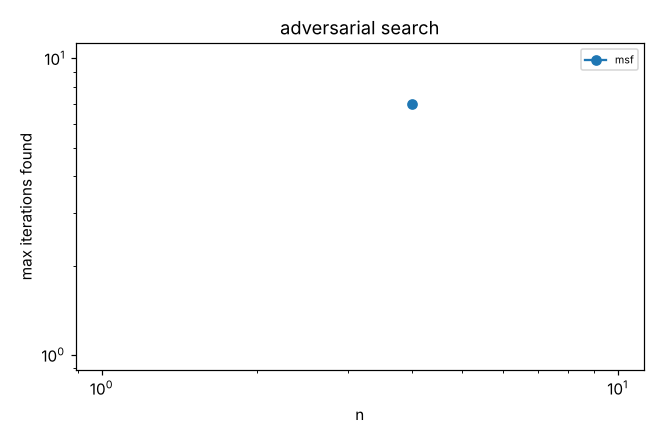
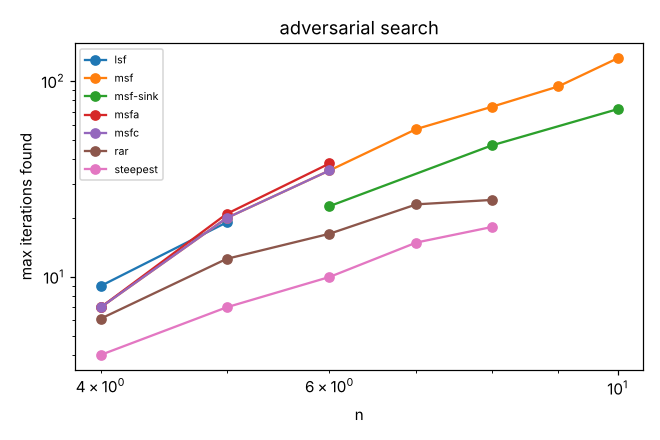
L-SI: cross-lane runs on L-ALG block games, M_L and Bland tables in RESULTS-extra; report appends them
Claude-Session: https://claude.ai/code/session_01HnGDSEHG3NHszV1y8ND6BF

diff --git a/experiments/si/report.py b/experiments/si/report.py
@@ -107,5 +107,8 @@ if adv:
         ax.plot([p[0] for p in pts], [max(p[1], 0.5) for p in pts], marker="o", label=r)
     ax.set_xscale("log"); ax.set_yscale("log"); ax.set_xlabel("n"); ax.set_ylabel("max iterations found"); ax.set_title("adversarial search")
     ax.legend(fontsize=7); fig.tight_layout(); fig.savefig(os.path.join(PLOTS, "adversarial.png"), dpi=110); plt.close(fig)
+extra = os.path.join(DOC, "RESULTS-extra.md")
+if os.path.exists(extra):
+    out.append(open(extra).read())
 open(os.path.join(DOC, "RESULTS.md"), "w").write("\n".join(out) + "\n")
 print("wrote", os.path.join(DOC, "RESULTS.md"), "and", len(fams), "plots")

diff --git a/docs/si/RESULTS.md b/docs/si/RESULTS.md
@@ -2,46 +2,259 @@
 Cell = iterations (randomized rules: mean over seeds / max); 'timeout' = exceeded the per-run limit; growth fits over the
 last 3 finished sizes: k (iters ~ n^k), b (iters ~ b^N per +1 in N). Plots: docs/si/plots/<family>.png (log-log).
 
-## counter_symsi
-| N | n | m | random-edge | rar |
-|---|---|---|---|---|
-| 1 | 12 | 26 | 5.6 / 6 | 5.2 / 6 |
-| 2 | 22 | 48 | 13.6 / 16 | 9.2 / 12 |
-| 3 | 32 | 70 | 20.8 / 30 | 21.4 / 31 |
-| 4 | 42 | 92 | 34.4 / 41 | 31.4 / 43 |
-| 5 | 52 | 114 | - | 33 |
+## switchallexp
+| N | n | m | S4 | S4:msf | lsf | most-improved | msf | random-edge | rar | steepest | switch-all |
+|---|---|---|---|---|---|---|---|---|---|---|---|
+| 1 | 21 | 41 | 10 | 13 | 15 | 20 | 13 | 22.0 / 29 | 18.4 / 22 | 13 | 10 |
+| 2 | 35 | 75 | 30 | 27 | 45 | 42 | 27 | 59.4 / 68 | 50.6 / 69 | 34 | 30 |
+| 3 | 49 | 109 | 70 | 42 | 102 | 56 | 42 | 103.6 / 160 | 126.8 / 147 | 58 | 70 |
+| 4 | 63 | 143 | 150 | 57 | 163 | 75 | 57 | 177.8 / 271 | 131.0 / 167 | 86 | 150 |
+| 5 | 77 | 177 | 310 | 72 | 236 | 94 | 72 | 236.0 / 265 | 226.4 / 272 | 118 | 310 |
+| 6 | 91 | 211 | 630 | 87 | 321 | 113 | 87 | 284.0 / 330 | 276.2 / 350 | 154 | 630 |
+| 7 | 105 | 245 | 1243 | 102 | 418 | 132 | 102 | 386.4 / 550 | 397.6 / 462 | 194 | 1243 |
+| 8 | 119 | 279 | 2486 | 117 | 527 | 151 | 117 | 561.6 / 726 | 455.0 / 621 | 238 | 2486 |
 
-Growth (last 3 sizes): random-edge: k=1.42 b=1.59; rar: k=0.92 b=1.24
+Growth (last 3 sizes): S4: k=5.11 b=1.99; S4:msf: k=1.10 b=1.16; lsf: k=1.85 b=1.28; most-improved: k=1.08 b=1.16; msf: k=1.10 b=1.16; random-edge: k=2.53 b=1.41; rar: k=1.88 b=1.28; steepest: k=1.62 b=1.24; switch-all: k=5.11 b=1.99
+
+## switchbestexp
+| N | n | m | S4 | S4:msf | lsf | most-improved | msf | random-edge | rar | steepest | switch-all |
+|---|---|---|---|---|---|---|---|---|---|---|---|
+| 1 | 35 | 70 | 21 | 20 | 28 | 42 | 20 | 45.0 / 57 | 38.4 / 53 | 23 | 21 |
+| 2 | 60 | 130 | 65 | 62 | 80 | 131 | 41 | 133.0 / 176 | 128.0 / 177 | 66 | 61 |
+| 3 | 85 | 190 | 130 | 101 | 170 | 299 | 61 | 323.0 / 441 | 215.4 / 278 | 126 | 141 |
+| 4 | 110 | 250 | 253 | 179 | 274 | 335 | 81 | 583.2 / 802 | 346.4 / 541 | 196 | 301 |
+| 5 | 135 | 310 | 466 | 235 | 402 | 484 | 101 | 657.4 / 1005 | 521.2 / 829 | 276 | 621 |
+| 6 | 160 | 370 | 853 | 349 | 554 | timeout | 121 | 1021.8 / 1263 | 872.8 / 1118 | 366 | 1261 |
+| 7 | 185 | 430 | 1592 | 423 | 730 | skipped | 141 | 1330.2 / 1613 | 1026.6 / 1615 | 466 | 2541 |
+| 8 | 210 | 490 | 2963 | 573 | 930 | skipped | 161 | 1366.0 / 1832 | 1530.4 / 2121 | timeout | 5101 |
+
+Growth (last 3 sizes): S4: k=4.57 b=1.86; S4:msf: k=1.81 b=1.28; lsf: k=1.90 b=1.30; most-improved: k=1.02 b=1.27; msf: k=1.05 b=1.15; random-edge: k=1.09 b=1.16; rar: k=2.04 b=1.32; steepest: k=1.66 b=1.30; switch-all: k=5.13 b=2.01
+
+## counter_core
+| N | n | m | S4 | S4:msf | lsf | most-improved | msf | random-edge | rar | steepest | switch-all |
+|---|---|---|---|---|---|---|---|---|---|---|---|
+| 1 | 9 | 16 | 3 | 3 | 2 | 2 | 2 | 2.0 / 2 | 2.0 / 2 | 2 | 2 |
+| 2 | 15 | 28 | 8 | 10 | 4 | 4 | 4 | 4.0 / 4 | 4.0 / 4 | 4 | 4 |
+| 3 | 21 | 40 | 15 | 21 | 6 | 6 | 6 | 6.0 / 6 | 6.0 / 6 | 6 | 6 |
+| 4 | 27 | 52 | 24 | 36 | 8 | 8 | 8 | 8.0 / 8 | 8.0 / 8 | 8 | 8 |
+| 5 | 33 | 64 | 35 | 55 | 10 | 10 | 10 | 10.0 / 10 | 10.0 / 10 | 10 | 10 |
+| 6 | 39 | 76 | 48 | 78 | 12 | 12 | 12 | 12.0 / 12 | 12.0 / 12 | 12 | 12 |
+| 7 | 45 | 88 | 63 | 105 | 14 | 14 | 14 | 14.0 / 14 | 14.0 / 14 | 14 | 14 |
+| 8 | 51 | 100 | 80 | 136 | 16 | 16 | 16 | 16.0 / 16 | 16.0 / 16 | 16 | 16 |
+
+Growth (last 3 sizes): S4: k=1.90 b=1.29; S4:msf: k=2.07 b=1.32; lsf: k=1.07 b=1.15; most-improved: k=1.07 b=1.15; msf: k=1.07 b=1.15; random-edge: k=1.07 b=1.15; rar: k=1.07 b=1.15; steepest: k=1.07 b=1.15; switch-all: k=1.07 b=1.15
+
+## counter_dp
+| N | n | m | S4 | S4:msf | lsf | most-improved | msf | random-edge | rar | steepest | switch-all |
+|---|---|---|---|---|---|---|---|---|---|---|---|
+| 1 | 8 | 12 | 0 | 0 | 0 | 0 | 0 | 0.0 / 0 | 0.0 / 0 | 0 | 0 |
+| 2 | 12 | 19 | 2 | 2 | 2 | 2 | 2 | 2.0 / 2 | 2.0 / 2 | 2 | 2 |
+| 3 | 16 | 26 | 4 | 4 | 0 | 0 | 0 | 0.0 / 0 | 0.0 / 0 | 0 | 0 |
+| 4 | 20 | 33 | 7 | 8 | 4 | 4 | 4 | 4.0 / 4 | 4.0 / 4 | 4 | 4 |
+| 5 | 24 | 40 | 9 | 12 | 0 | 0 | 0 | 0.0 / 0 | 0.0 / 0 | 0 | 0 |
+| 6 | 28 | 47 | 14 | 18 | 6 | 6 | 6 | 6.0 / 6 | 6.0 / 6 | 6 | 6 |
+| 7 | 32 | 54 | 16 | 24 | 0 | 0 | 0 | 0.0 / 0 | 0.0 / 0 | 0 | 0 |
+| 8 | 36 | 61 | 23 | 32 | 8 | 8 | 8 | 8.0 / 8 | 8.0 / 8 | 8 | 8 |
+
+Growth (last 3 sizes): S4: k=1.95 b=1.28; S4:msf: k=2.29 b=1.33; lsf: k=1.18 b=1.19; most-improved: k=1.18 b=1.19; msf: k=1.18 b=1.19; random-edge: k=1.18 b=1.19; rar: k=1.18 b=1.19; steepest: k=1.18 b=1.19; switch-all: k=1.18 b=1.19
+
+## counter_m
+| N | n | m | S4 | S4:msf | lsf | most-improved | msf | random-edge | rar | steepest | switch-all |
+|---|---|---|---|---|---|---|---|---|---|---|---|
+| 1 | 6 | 9 | 1 | 2 | 2 | 2 | 2 | 2.0 / 2 | 2.0 / 2 | 2 | 1 |
+| 2 | 9 | 15 | 3 | 5 | 1 | 1 | 1 | 1.0 / 1 | 1.0 / 1 | 1 | 1 |
+| 3 | 12 | 21 | 6 | 10 | 6 | 4 | 6 | 5.6 / 6 | 4.8 / 6 | 4 | 3 |
+| 4 | 15 | 27 | 8 | 16 | 2 | 2 | 2 | 2.0 / 2 | 2.0 / 2 | 2 | 1 |
+| 5 | 18 | 33 | 13 | 24 | 10 | 6 | 10 | 9.6 / 10 | 7.6 / 10 | 6 | 5 |
+| 6 | 21 | 39 | 15 | 33 | 3 | 3 | 3 | 3.0 / 3 | 3.0 / 3 | 3 | 1 |
+| 7 | 24 | 45 | 22 | 44 | 14 | 8 | 14 | 12.4 / 14 | 10.4 / 14 | 8 | 7 |
+| 8 | 27 | 51 | 24 | 56 | 4 | 4 | 4 | 4.0 / 4 | 4.0 / 4 | 4 | 1 |
+
+Growth (last 3 sizes): S4: k=1.89 b=1.26; S4:msf: k=2.11 b=1.30; lsf: k=1.38 b=1.15; most-improved: k=1.28 b=1.15; msf: k=1.38 b=1.15; random-edge: k=1.35 b=1.15; rar: k=1.33 b=1.15; steepest: k=1.28 b=1.15; switch-all: k=0.32 b=1.00
+
+## counter_ortl
+| N | n | m | S4 | S4:msf | lsf | most-improved | msf | random-edge | rar | steepest | switch-all |
+|---|---|---|---|---|---|---|---|---|---|---|---|
+| 1 | 6 | 9 | 2 | 2 | 2 | 2 | 2 | 2.0 / 2 | 2.0 / 2 | 2 | 2 |
+| 2 | 11 | 17 | 5 | 4 | 4 | 4 | 4 | 4.0 / 4 | 4.0 / 4 | 4 | 3 |
+| 3 | 16 | 25 | 8 | 6 | 6 | 6 | 6 | 6.0 / 6 | 6.0 / 6 | 6 | 4 |
+| 4 | 21 | 33 | 11 | 8 | 8 | 8 | 8 | 8.0 / 8 | 8.0 / 8 | 8 | 5 |
+| 5 | 26 | 41 | 14 | 10 | 10 | 10 | 10 | 10.0 / 10 | 10.0 / 10 | 10 | 6 |
+| 6 | 31 | 49 | 15 | 12 | 12 | 12 | 12 | 12.0 / 12 | 12.0 / 12 | 12 | 7 |
+| 7 | 36 | 57 | 18 | 14 | 14 | 14 | 14 | 14.0 / 14 | 14.0 / 14 | 14 | 8 |
+| 8 | 41 | 65 | 20 | 16 | 16 | 16 | 16 | 16.0 / 16 | 16.0 / 16 | 16 | 9 |
+
+Growth (last 3 sizes): S4: k=1.03 b=1.15; S4:msf: k=1.03 b=1.15; lsf: k=1.03 b=1.15; most-improved: k=1.03 b=1.15; msf: k=1.03 b=1.15; random-edge: k=1.03 b=1.15; rar: k=1.03 b=1.15; steepest: k=1.03 b=1.15; switch-all: k=0.90 b=1.13
+
+## counter_qpt
+| N | n | m | S4 | S4:msf | lsf | most-improved | msf | random-edge | rar | steepest | switch-all |
+|---|---|---|---|---|---|---|---|---|---|---|---|
+| 1 | 2 | 2 | 0 | 0 | 0 | 0 | 0 | 0.0 / 0 | 0.0 / 0 | 0 | 0 |
+| 2 | 4 | 5 | 1 | 1 | 1 | 1 | 1 | 1.0 / 1 | 1.0 / 1 | 1 | 1 |
+| 3 | 6 | 8 | 1 | 2 | 2 | 2 | 2 | 2.0 / 2 | 2.0 / 2 | 2 | 1 |
+| 4 | 8 | 11 | 1 | 3 | 3 | 3 | 3 | 3.0 / 3 | 3.0 / 3 | 3 | 1 |
+| 5 | 10 | 14 | 1 | 4 | 4 | 4 | 4 | 4.0 / 4 | 4.0 / 4 | 4 | 1 |
+| 6 | 12 | 17 | 1 | 5 | 5 | 5 | 5 | 5.0 / 5 | 5.0 / 5 | 5 | 1 |
+| 7 | 14 | 20 | 1 | 6 | 6 | 6 | 6 | 6.0 / 6 | 6.0 / 6 | 6 | 1 |
+| 8 | 16 | 23 | 1 | 7 | 7 | 7 | 7 | 7.0 / 7 | 7.0 / 7 | 7 | 1 |
+
+Growth (last 3 sizes): S4: k=0.00 b=1.00; S4:msf: k=1.17 b=1.18; lsf: k=1.17 b=1.18; most-improved: k=1.17 b=1.18; msf: k=1.17 b=1.18; random-edge: k=1.17 b=1.18; rar: k=1.17 b=1.18; steepest: k=1.17 b=1.18; switch-all: k=0.00 b=1.00
+
+## counter_rob
+| N | n | m | S4 | S4:msf | lsf | most-improved | msf | random-edge | rar | steepest | switch-all |
+|---|---|---|---|---|---|---|---|---|---|---|---|
+| 1 | 14 | 32 | 3 | 3 | 4 | 4 | 2 | 2.8 / 4 | 3.6 / 4 | 2 | 3 |
+| 2 | 31 | 80 | 11 | 17 | 22 | 8 | 4 | 15.4 / 21 | 13.6 / 16 | 4 | 6 |
+| 3 | 54 | 148 | 25 | 49 | 46 | 12 | 6 | 32.4 / 44 | 32.0 / 44 | 6 | 9 |
+| 4 | 83 | 236 | 46 | 105 | 78 | 16 | 8 | 64.0 / 69 | 47.6 / 70 | 8 | 14 |
+| 5 | 118 | 344 | 74 | 191 | 118 | 28 | 10 | 97.2 / 125 | 103.2 / 121 | 10 | 19 |
+| 6 | 159 | 472 | 109 | 313 | 166 | 34 | 12 | 159.8 / 174 | 137.4 / 157 | 12 | 24 |
+| 7 | 206 | 620 | 151 | 477 | 222 | 40 | 14 | 210.4 / 222 | 193.2 / 204 | 14 | 29 |
+| 8 | 259 | 788 | 200 | 689 | 286 | 46 | 16 | 309.0 / 333 | 300.0 / 456 | 16 | 34 |
+
+Growth (last 3 sizes): S4: k=1.24 b=1.35; S4:msf: k=1.62 b=1.48; lsf: k=1.12 b=1.31; most-improved: k=0.62 b=1.16; msf: k=0.59 b=1.15; random-edge: k=1.35 b=1.39; rar: k=1.59 b=1.48; steepest: k=0.59 b=1.15; switch-all: k=0.71 b=1.19
+
+## counter_rr
+| N | n | m | S4 | S4:msf | lsf | most-improved | msf | random-edge | rar | steepest | switch-all |
+|---|---|---|---|---|---|---|---|---|---|---|---|
+| 1 | 4 | 8 | 0 | 0 | 0 | 0 | 0 | 0.0 / 0 | 0.0 / 0 | 0 | 0 |
+| 2 | 8 | 16 | 2 | 1 | 1 | 1 | 1 | 1.4 / 3 | 1.4 / 3 | 1 | 2 |
+| 3 | 12 | 24 | 2 | 1 | 1 | 1 | 1 | 1.4 / 3 | 1.4 / 3 | 1 | 2 |
+| 4 | 16 | 32 | 4 | 2 | 2 | 2 | 2 | 2.8 / 4 | 4.0 / 6 | 2 | 3 |
+| 5 | 20 | 40 | 4 | 2 | 2 | 2 | 2 | 2.8 / 4 | 4.0 / 6 | 2 | 3 |
+| 6 | 24 | 48 | 6 | 3 | 3 | 3 | 3 | 6.2 / 7 | 5.4 / 7 | 3 | 3 |
+| 7 | 28 | 56 | 6 | 3 | 3 | 3 | 3 | 6.2 / 7 | 5.4 / 7 | 3 | 3 |
+| 8 | 32 | 64 | 8 | 4 | 4 | 4 | 4 | 8.4 / 12 | 8.0 / 10 | 4 | 3 |
+
+Growth (last 3 sizes): S4: k=0.97 b=1.15; S4:msf: k=0.97 b=1.15; lsf: k=0.97 b=1.15; most-improved: k=0.97 b=1.15; msf: k=0.97 b=1.15; random-edge: k=1.03 b=1.16; rar: k=1.33 b=1.22; steepest: k=0.97 b=1.15; switch-all: k=0.00 b=1.00
+
+## counter_symsi
+| N | n | m | S4 | S4:msf | lsf | most-improved | msf | random-edge | rar | steepest | switch-all |
+|---|---|---|---|---|---|---|---|---|---|---|---|
+| 1 | 12 | 26 | 3 | 3 | 6 | 4 | 4 | 5.6 / 6 | 5.2 / 6 | 6 | 4 |
+| 2 | 22 | 48 | 6 | 8 | 16 | 6 | 8 | 13.6 / 16 | 9.2 / 12 | 8 | 7 |
+| 3 | 32 | 70 | 12 | 19 | 24 | 10 | 10 | 20.8 / 30 | 21.4 / 31 | 10 | 10 |
+| 4 | 42 | 92 | 24 | 32 | 38 | 14 | 12 | 34.4 / 41 | 31.4 / 43 | 12 | 16 |
+| 5 | 52 | 114 | 37 | 49 | 60 | 18 | 14 | 48.4 / 58 | 44.0 / 51 | 14 | 20 |
+| 6 | 62 | 136 | 54 | 70 | 98 | 22 | 16 | 58.8 / 75 | 59.2 / 72 | 16 | 23 |
+| 7 | 72 | 158 | 74 | 95 | 168 | 26 | 18 | 73.0 / 88 | 66.0 / 84 | 18 | 25 |
+| 8 | 82 | 180 | 97 | 124 | 302 | 30 | 20 | 72.8 / 82 | 77.0 / 94 | 20 | 32 |
+
+Growth (last 3 sizes): S4: k=2.10 b=1.34; S4:msf: k=2.05 b=1.33; lsf: k=4.02 b=1.76; most-improved: k=1.11 b=1.17; msf: k=0.80 b=1.12; random-edge: k=0.78 b=1.11; rar: k=0.93 b=1.14; steepest: k=0.80 b=1.12; switch-all: k=1.17 b=1.18
+
+## randomfacetsubexp
+| N | n | m | S4 | S4:msf | lsf | most-improved | msf | steepest | switch-all |
+|---|---|---|---|---|---|---|---|---|---|
+| 2 | 20 | 32 | 4 | 7 | 6 | 4 | 7 | 5 | 4 |
+| 3 | 68 | 170 | 6 | 44 | 36 | 130 | 44 | 106 | 6 |
+| 4 | 90 | 227 | 8 | 60 | 48 | 294 | 60 | 233 | 8 |
+| 5 | 207 | 689 | 10 | 171 | 135 | timeout | 171 | timeout | 10 |
+| 6 | 248 | 828 | 12 | 207 | 162 | skipped | 207 | skipped | 12 |
+| 7 | 289 | 967 | 14 | 243 | 189 | skipped | 243 | skipped | 14 |
+| 8 | 330 | 1106 | 16 | 279 | 216 | skipped | 279 | skipped | 16 |
+| 10 | 662 | 2717 | 20 | 624 | 480 | skipped | 624 | skipped | 20 |
+| 12 | 794 | 3263 | 24 | 752 | 576 | skipped | 752 | skipped | 24 |
+
+Growth (last 3 sizes): S4: k=0.42 b=1.11; S4:msf: k=1.14 b=1.28; lsf: k=1.13 b=1.28; most-improved: k=2.85 b=8.57; msf: k=1.14 b=1.28; steepest: k=2.54 b=6.83; switch-all: k=0.42 b=1.11
+
+## recursiveladder
+| N | n | m | S4 | S4:msf | lsf | most-improved | msf | random-edge | rar | steepest | switch-all |
+|---|---|---|---|---|---|---|---|---|---|---|---|
+| 1 | 5 | 8 | 0 | 0 | 0 | 0 | 0 | 0.0 / 0 | 0.0 / 0 | 0 | 0 |
+| 2 | 10 | 19 | 0 | 0 | 0 | 0 | 0 | 0.0 / 0 | 0.0 / 0 | 0 | 0 |
+| 3 | 15 | 30 | 3 | 2 | 4 | 2 | 2 | 2.4 / 4 | 2.8 / 4 | 2 | 2 |
+| 4 | 20 | 41 | 5 | 8 | 0 | 0 | 0 | 0.0 / 0 | 0.0 / 0 | 0 | 0 |
+| 5 | 25 | 52 | 10 | 12 | 8 | 4 | 4 | 5.6 / 8 | 6.0 / 8 | 4 | 4 |
+| 6 | 30 | 63 | 12 | 24 | 0 | 0 | 0 | 0.0 / 0 | 0.0 / 0 | 0 | 0 |
+| 7 | 35 | 74 | 19 | 30 | 12 | 6 | 6 | 8.8 / 12 | 9.6 / 12 | 6 | 6 |
+| 8 | 40 | 85 | 21 | 48 | 0 | 0 | 0 | 0.0 / 0 | 0.0 / 0 | 0 | 0 |
+
+Growth (last 3 sizes): S4: k=1.97 b=1.32; S4:msf: k=2.38 b=1.41; lsf: k=1.30 b=1.32; most-improved: k=1.30 b=1.32; msf: k=1.30 b=1.32; random-edge: k=1.54 b=1.38; rar: k=1.46 b=1.36; steepest: k=1.30 b=1.32; switch-all: k=1.30 b=1.32
 
 ## tc
-| N | n | m | random-edge | rar |
-|---|---|---|---|---|
-| 1 | 8 | 11 | 0.0 / 0 | 0.0 / 0 |
-| 2 | 22 | 36 | 5.0 / 5 | 5.0 / 5 |
-| 3 | 42 | 75 | 9.4 / 13 | 11.2 / 13 |
-| 4 | 68 | 128 | 31.4 / 45 | 31.0 / 40 |
-| 5 | 100 | 195 | 48.0 / 61 | 62.8 / 100 |
-| 6 | 138 | 276 | 89.2 / 109 | 102.2 / 126 |
-| 7 | 182 | 371 | 128.8 / 151 | 138.8 / 203 |
-| 8 | 232 | 480 | 213.4 / 260 | 256.6 / 306 |
+| N | n | m | S4 | S4:msf | lsf | most-improved | msf | random-edge | rar | steepest | switch-all |
+|---|---|---|---|---|---|---|---|---|---|---|---|
+| 1 | 8 | 11 | 0 | 0 | 0 | 0 | 0 | 0.0 / 0 | 0.0 / 0 | 0 | 0 |
+| 2 | 22 | 36 | 5 | 5 | 5 | 5 | 5 | 5.0 / 5 | 5.0 / 5 | 5 | 4 |
+| 3 | 42 | 75 | 10 | 16 | 16 | 8 | 10 | 9.4 / 13 | 11.2 / 13 | 8 | 5 |
+| 4 | 68 | 128 | 19 | 39 | 27 | 19 | 23 | 31.4 / 45 | 31.0 / 40 | 17 | 10 |
+| 5 | 100 | 195 | 29 | 102 | 41 | 27 | 61 | 48.0 / 61 | 62.8 / 100 | 27 | 13 |
+| 6 | 138 | 276 | 50 | 229 | 87 | 62 | 135 | 89.2 / 109 | 102.2 / 126 | 46 | 15 |
+| 7 | 182 | 371 | 73 | 393 | 98 | 67 | 126 | 128.8 / 151 | 138.8 / 203 | 64 | 14 |
+| 8 | 232 | 480 | 116 | 813 | 204 | 107 | 275 | 213.4 / 260 | 256.6 / 306 | 88 | 25 |
 
-Growth (last 3 sizes): random-edge: k=1.67 b=1.55; rar: k=1.76 b=1.58
+Growth (last 3 sizes): S4: k=1.61 b=1.52; S4:msf: k=2.43 b=1.88; lsf: k=1.61 b=1.53; most-improved: k=1.03 b=1.31; msf: k=1.33 b=1.43; random-edge: k=1.67 b=1.55; rar: k=1.76 b=1.58; steepest: k=1.25 b=1.38; switch-all: k=0.95 b=1.29
 
 ## tc+
-| N | n | m | random-edge | rar |
-|---|---|---|---|---|
-| 1 | 8 | 10 | 0.0 / 0 | 0.0 / 0 |
-| 2 | 24 | 38 | 4.0 / 6 | 4.8 / 6 |
-| 3 | 54 | 96 | 19.4 / 24 | 21.6 / 29 |
-| 4 | 104 | 196 | 66.8 / 78 | 58.6 / 72 |
-| 5 | 180 | 350 | 165.2 / 185 | 139.0 / 162 |
-| 6 | 288 | 570 | 283.2 / 332 | 228.4 / 287 |
-| 7 | 434 | 868 | 514.0 / 752 | 463.4 / 704 |
-| 8 | 624 | 1256 | 876.2 / 984 | 686.8 / 1015 |
+| N | n | m | S4 | S4:msf | lsf | most-improved | msf | random-edge | rar | steepest | switch-all |
+|---|---|---|---|---|---|---|---|---|---|---|---|
+| 1 | 8 | 10 | 0 | 0 | 0 | 0 | 0 | 0.0 / 0 | 0.0 / 0 | 0 | 0 |
+| 2 | 24 | 38 | 2 | 3 | 6 | 4 | 4 | 4.0 / 6 | 4.8 / 6 | 2 | 3 |
+| 3 | 54 | 96 | 5 | 16 | 13 | 12 | 14 | 19.4 / 24 | 21.6 / 29 | 12 | 7 |
+| 4 | 104 | 196 | 11 | 50 | 34 | 34 | 35 | 66.8 / 78 | 58.6 / 72 | 28 | 9 |
+| 5 | 180 | 350 | 19 | 120 | 71 | 62 | 70 | 165.2 / 185 | 139.0 / 162 | 56 | 15 |
+| 6 | 288 | 570 | 29 | 245 | 128 | 102 | 123 | 283.2 / 332 | 228.4 / 287 | 100 | 22 |
+| 7 | 434 | 868 | 44 | 448 | 209 | 156 | 198 | 514.0 / 752 | 463.4 / 704 | 164 | 25 |
+| 8 | 624 | 1256 | 65 | 756 | 318 | timeout | 299 | 876.2 / 984 | 686.8 / 1015 | 252 | 28 |
 
-Growth (last 3 sizes): random-edge: k=1.46 b=1.76; rar: k=1.43 b=1.73
+Growth (last 3 sizes): S4: k=1.04 b=1.50; S4:msf: k=1.46 b=1.76; lsf: k=1.18 b=1.58; most-improved: k=1.05 b=1.59; msf: k=1.15 b=1.56; random-edge: k=1.46 b=1.76; rar: k=1.43 b=1.73; steepest: k=1.20 b=1.59; switch-all: k=0.31 b=1.13
+
+## zadehexp
+| N | n | m | S4 | S4:msf | lsf | most-improved | msf | steepest | switch-all |
+|---|---|---|---|---|---|---|---|---|---|
+| 2 | 28 | 52 | 4 | 15 | 33 | 11 | 15 | 15 | 4 |
+| 3 | 45 | 85 | 6 | 27 | 89 | 21 | 27 | 23 | 6 |
+| 4 | 62 | 118 | 5 | 39 | 205 | 27 | 39 | 31 | 5 |
+| 5 | 79 | 151 | 6 | 51 | 441 | 37 | 51 | 39 | 6 |
+| 6 | 96 | 184 | 5 | 63 | 917 | 43 | 63 | 47 | 5 |
+| 7 | 113 | 217 | 6 | 75 | 1873 | 53 | 75 | 55 | 6 |
+| 8 | 130 | 250 | 5 | 87 | 3789 | 59 | 87 | 63 | 5 |
+| 10 | 164 | 316 | 5 | 111 | 15301 | 75 | 111 | 79 | 5 |
+| 12 | 198 | 382 | 5 | 135 | timeout | 91 | 135 | 95 | 5 |
+
+Growth (last 3 sizes): S4: k=0.00 b=1.00; S4:msf: k=1.04 b=1.12; lsf: k=5.68 b=2.01; most-improved: k=1.03 b=1.11; msf: k=1.04 b=1.12; steepest: k=0.98 b=1.11; switch-all: k=0.00 b=1.00
 
 ## Adversarial search (hill-climb, n ≤ 10; max iterations found, randomized rules: mean over seeds)
-| rule | n=4 | fit k (iters ~ n^k, last 4) |
-|---|---|---|
+| rule | n=4 | n=5 | n=6 | n=7 | n=8 | n=9 | n=10 | fit k (iters ~ n^k, last 4) |
+|---|---|---|---|---|---|---|---|---|
+| lsf | 9 | 19 | - | - | - | - | - | 3.35 |
+| msf | 7 | 20 | 35 | 57 | 74 | 94 | 131 | 2.55 |
+| msf-sink | - | - | 23 | - | 47 | - | 72 | 2.25 |
+| msfa | 7 | 21 | 38 | - | - | - | - | 4.20 |
+| msfc | 7 | 20 | 35 | - | - | - | - | 4.00 |
+| rar | 6.125 | 12.375 | 16.625 | 23.5 | 24.75 | - | - | 1.41 |
+| steepest | 4 | 7 | 10 | 15 | 18 | - | - | 2.06 |
+## Hand-recorded runs (appended by report.py; L-SI)
+
+### DLMM M_L sink-game port (gens.py dlmm_ML, start sigma_0 of Lemma 5.4; n = 3L + 4)
+| L | lsf | steepest | msf | msfa | most-improved | switch-all | rar (mean of 10) |
+|---|---|---|---|---|---|---|---|
+| 2 | 4 | 4 | 4 | 4 | 2 | 2 | 3.0 |
+| 3 | 11 | 11 | 7 | 7 | 3 | 2 | 4.8 |
+| 4 | 26 | 26 | 10 | 10 | 4 | 2 | 5.8 |
+| 5 | 57 | 57 | 13 | 13 | 5 | 2 | 8.2 |
+| 6 | 120 | 120 | 16 | 16 | 6 | 2 | 9.0 |
+| 7 | 247 | 247 | 19 | 19 | 7 | 2 | 14.4 |
+| 8 | 502 | 502 | 22 | 22 | 8 | 2 | 13.0 |
+| 9 | 1013 | 1013 | 25 | - | - | 2 | - |
+| 10 | 2036 | 2036 | 28 | - | - | 2 | - |
+
+lsf = steepest = 2^(L+1) - (L+2) (exponential); msf = 3L - 2.
+
+### DLMM Bland counter G_n (gens.py dlmm_bland; start sigma_0 = "first"; n = 2n_levels + 2)
+| levels | lsf | msf | steepest | switch-all | rar (mean of 10) |
+|---|---|---|---|---|---|
+| 4 | 15 | 1 | 1 | 4 | 4.0 |
+| 8 | 255 | 1 | 1 | 8 | 6.8 |
+| 12 | 4095 | 1 | 1 | 12 | 12.2 |
+
+### Cross-lane (Lead 11:21Z): L-ALG's block-structured games, claude/l-alg a5164a4, experiments/alg/instances/zp_ga_K*.pg
+| instance | n | msf | msfa | lsf | steepest | switch-all |
+|---|---|---|---|---|---|---|
+| zp_ga_K6_n24_calls129 | 24 | 3 | 3 | 3 | 3 | 2 |
+| zp_ga_K8_n32_calls247 | 32 | 2 | 2 | 4 | 2 | 3 |
+| zp_ga_K10_n40_calls659 | 40 | 7 | 7 | 12 | 7 | 4 |
+| zp_ga_K12_n48_calls1943 | 48 | 12 | 12 | 13 | 11 | 4 |
+
+Trivial for every SI rule (the games are built to blow up a Zielonka+psolC hybrid, not SI).
 

diff --git a/docs/si/RESULTS-extra.md b/docs/si/RESULTS-extra.md
@@ -1,0 +1,33 @@
+## Hand-recorded runs (appended by report.py; L-SI)
+
+### DLMM M_L sink-game port (gens.py dlmm_ML, start sigma_0 of Lemma 5.4; n = 3L + 4)
+| L | lsf | steepest | msf | msfa | most-improved | switch-all | rar (mean of 10) |
+|---|---|---|---|---|---|---|---|
+| 2 | 4 | 4 | 4 | 4 | 2 | 2 | 3.0 |
+| 3 | 11 | 11 | 7 | 7 | 3 | 2 | 4.8 |
+| 4 | 26 | 26 | 10 | 10 | 4 | 2 | 5.8 |
+| 5 | 57 | 57 | 13 | 13 | 5 | 2 | 8.2 |
+| 6 | 120 | 120 | 16 | 16 | 6 | 2 | 9.0 |
+| 7 | 247 | 247 | 19 | 19 | 7 | 2 | 14.4 |
+| 8 | 502 | 502 | 22 | 22 | 8 | 2 | 13.0 |
+| 9 | 1013 | 1013 | 25 | - | - | 2 | - |
+| 10 | 2036 | 2036 | 28 | - | - | 2 | - |
+
+lsf = steepest = 2^(L+1) - (L+2) (exponential); msf = 3L - 2.
+
+### DLMM Bland counter G_n (gens.py dlmm_bland; start sigma_0 = "first"; n = 2n_levels + 2)
+| levels | lsf | msf | steepest | switch-all | rar (mean of 10) |
+|---|---|---|---|---|---|
+| 4 | 15 | 1 | 1 | 4 | 4.0 |
+| 8 | 255 | 1 | 1 | 8 | 6.8 |
+| 12 | 4095 | 1 | 1 | 12 | 12.2 |
+
+### Cross-lane (Lead 11:21Z): L-ALG's block-structured games, claude/l-alg a5164a4, experiments/alg/instances/zp_ga_K*.pg
+| instance | n | msf | msfa | lsf | steepest | switch-all |
+|---|---|---|---|---|---|---|
+| zp_ga_K6_n24_calls129 | 24 | 3 | 3 | 3 | 3 | 2 |
+| zp_ga_K8_n32_calls247 | 32 | 2 | 2 | 4 | 2 | 3 |
+| zp_ga_K10_n40_calls659 | 40 | 7 | 7 | 12 | 7 | 4 |
+| zp_ga_K12_n48_calls1943 | 48 | 12 | 12 | 13 | 11 | 4 |
+
+Trivial for every SI rule (the games are built to blow up a Zielonka+psolC hybrid, not SI).
